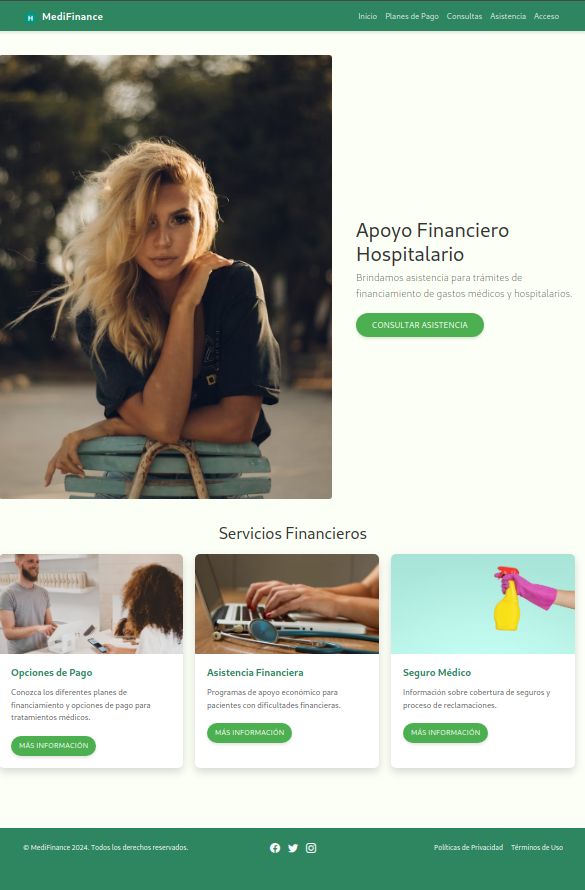
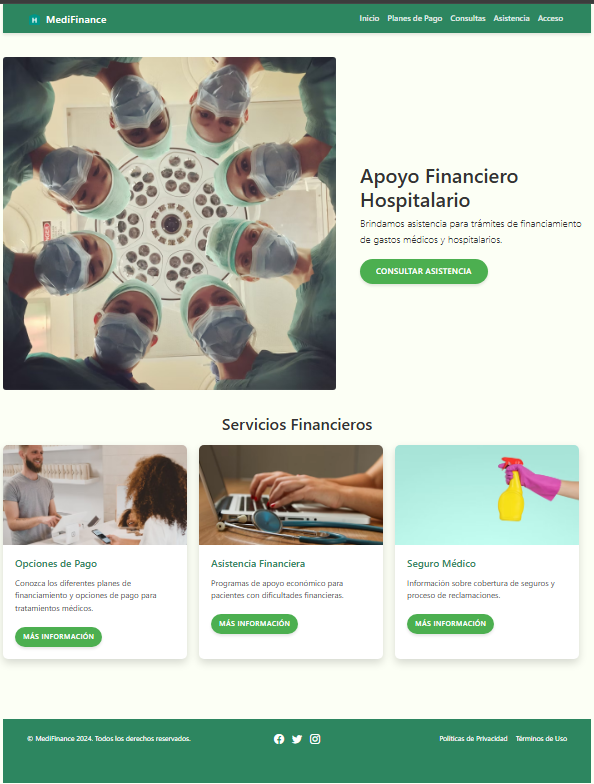
Cambio de Imagen | Hero

diff --git a/src/components/Hero.jsx b/src/components/Hero.jsx
@@ -7,7 +7,7 @@ const Hero = () => {
   return (
     <div className="row gx-4 gx-lg-5 align-items-center my-5">
       <div className="col-lg-7">
-        <img className="img-fluid rounded mb-4 mb-lg-0" src="https://images.unsplash.com/photo-1504439904031-93ded9f93e4e?ixlib=rb-1.2.1&auto=format&fit=crop&w=800&q=80" alt="Hospital Finance" />
+        <img className="img-fluid rounded mb-4 mb-lg-0" src="https://images.unsplash.com/photo-1579684385127-1ef15d508118?ixlib=rb-1.2.1&auto=format&fit=crop&w=800&q=80" alt="Hospital Finance" />
       </div>
       <div className="col-lg-5">
         <h1 className="font-weight-light">Apoyo Financiero Hospitalario</h1>
